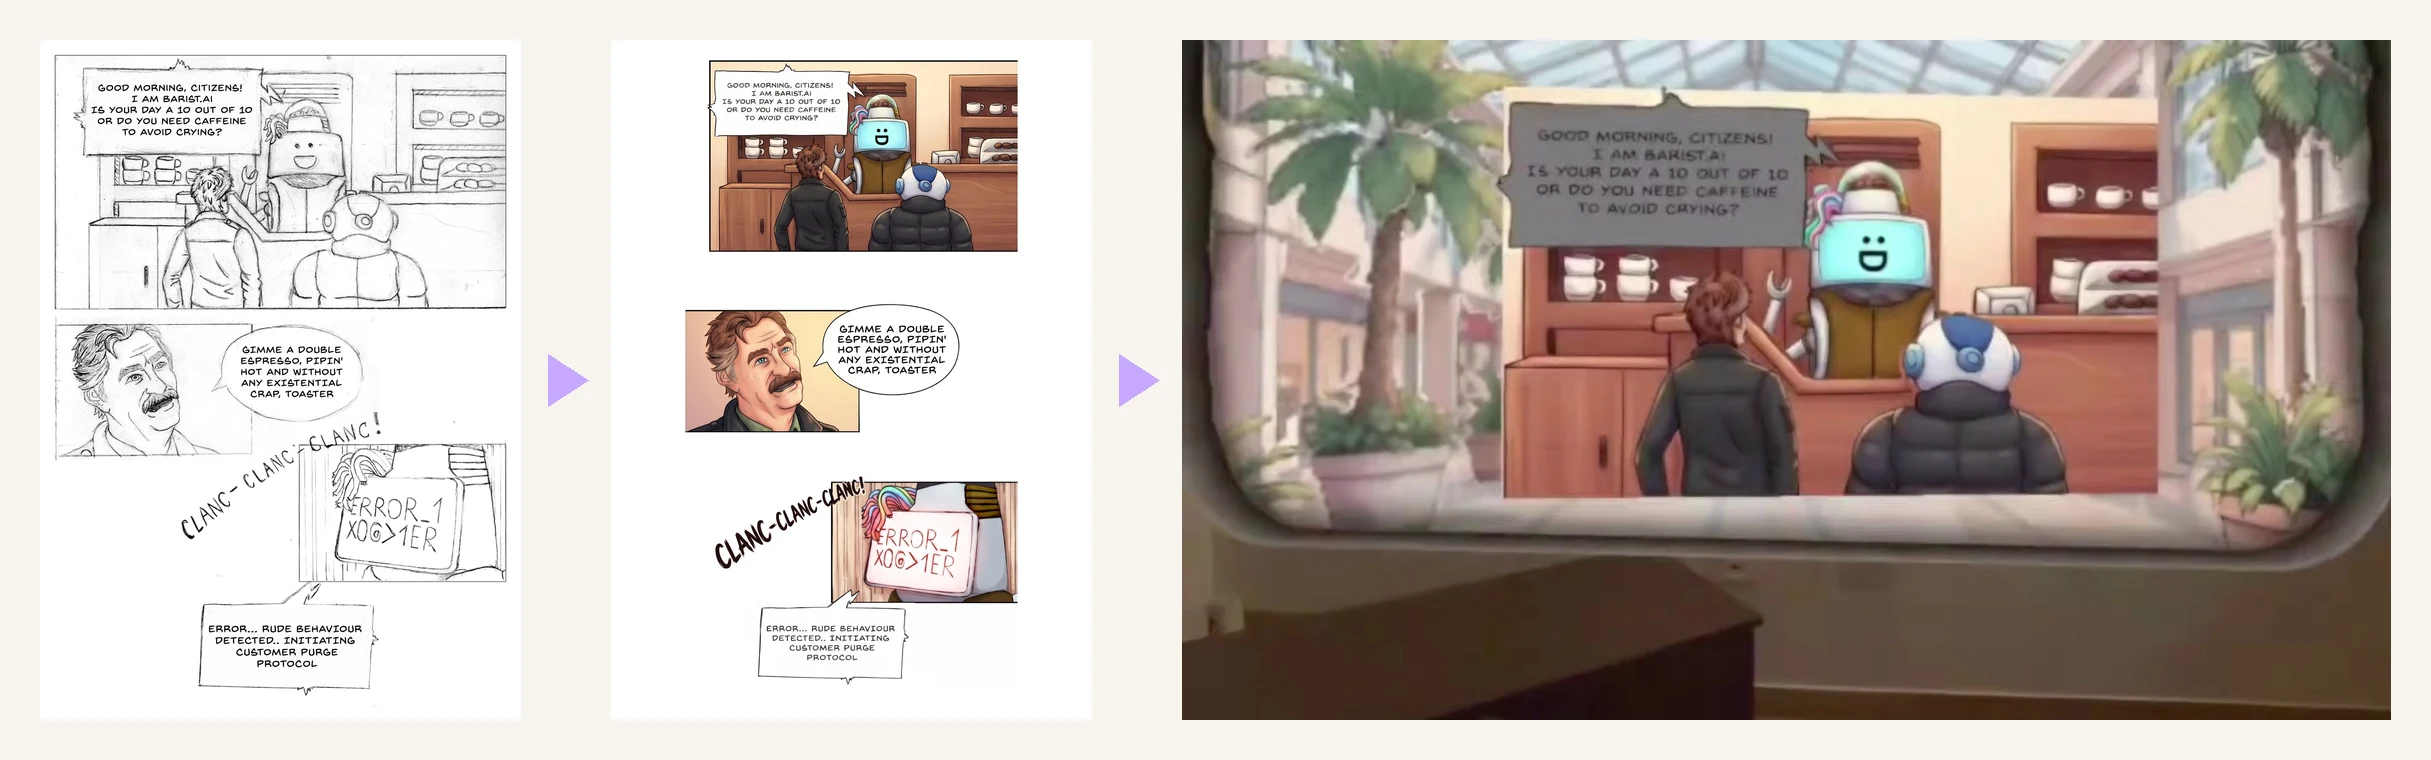
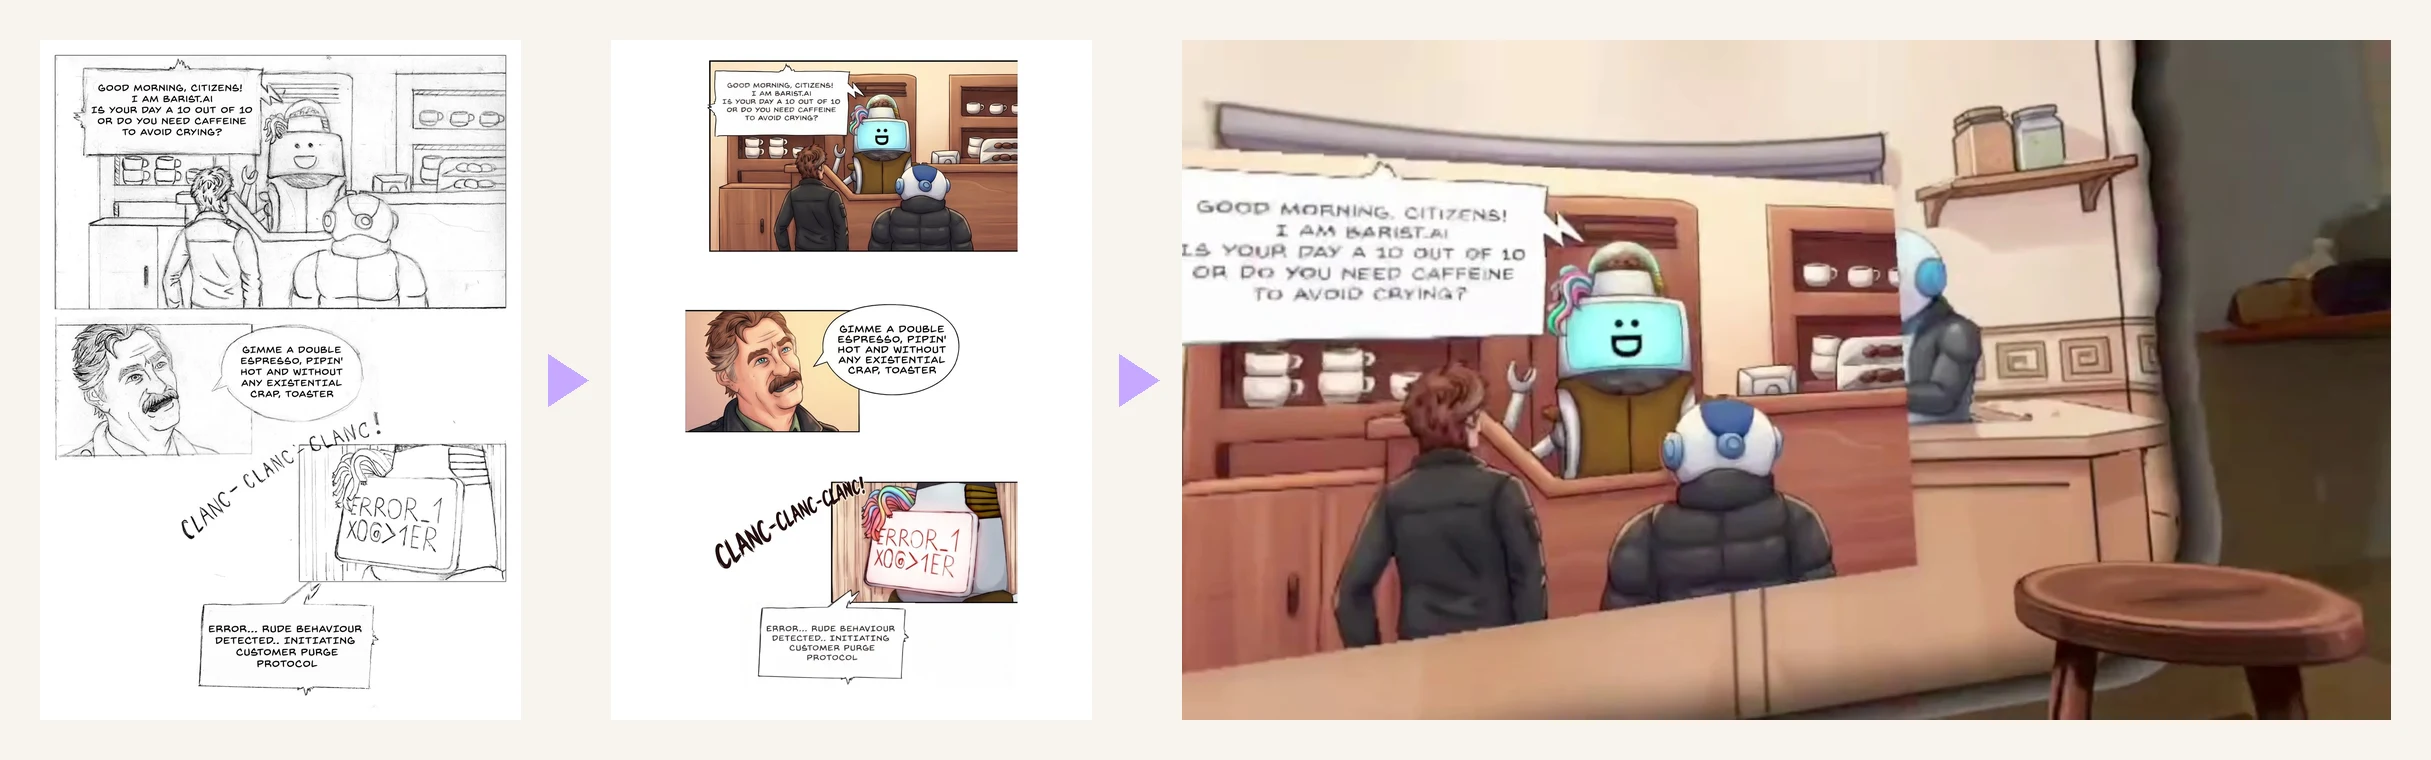
README: the wordmark, a header frame with a lit balloon and a 3D prop, and a Devpost header
The header's headset panel is a frame where the line being read is lit and
the cafe's 3D stool stands in the scene; the gallery gains the balloon
highlight. The title is the Zumi wordmark. docs/images/devpost-header.jpg is
the logo layout with its empty panels filled: the same panel in pencil and in
color, the making-of in the room, the book, and the lit balloon on the
headset.

Claude-Session: https://claude.ai/code/session_01KkrAwvXFdFKR5zzyuN5Jh8

diff --git a/README.md b/README.md
@@ -1,8 +1,8 @@
-<img src="docs/images/header.webp" alt="Zumi: a pencil page, the same page colored, and the panel playing through a window in a real wall, captured on a Quest 3" width="100%">
+<img src="docs/images/header.webp" alt="Zumi: a pencil page, the same page colored, and the panel playing on a Quest 3 with its line lit and the cafe behind it, a 3D stool in the scene" width="100%">
 
-# <img src="docs/images/zumi-logo.png" alt="" height="44"> Zumi
+<h1 align="center"><img src="docs/images/zumi-wordmark.png" alt="Zumi" width="300"></h1>
 
-[![Demo video](https://img.shields.io/badge/demo_video-YouTube-red)](https://www.youtube.com/watch?v=WcKxd4QNLlw)
+<p align="center"><a href="https://www.youtube.com/watch?v=WcKxd4QNLlw"><img src="https://img.shields.io/badge/demo_video-YouTube-red" alt="Demo video"></a></p>
 
 Turn your pencil sketches into awesome mixed reality comics. Zumi takes a comic drawn in pencil, colors it without redrawing it, gives every character a voice, scores it, builds the world of each scene in 3D, and plays the result on a Meta Quest: the panels float in front of you while the scene behind them opens up through a window in your real wall. We built it as a team of two (one engineer working with AI coding agents, one comic artist) for the Meta VR Start Developer Competition, in a few weeks.
 
@@ -22,8 +22,8 @@ Real captures from a Quest 3, from the [demo video](https://www.youtube.com/watc
 |---|---|
 | <img src="docs/images/capture-carousel.webp" alt="The carousel with the Dan and Buck book"> | <img src="docs/images/capture-making-of.webp" alt="The making-of showcase: ten pages floating in the room"> |
 | The carousel: grab the book to open it | How it was made: the pages, stage by stage, in your room |
-| <img src="docs/images/capture-portal.webp" alt="A panel in front of a window cut into the real wall, the cafe behind it"> | <img src="docs/images/capture-props.webp" alt="A bar stool from the comic standing on the real floor"> |
-| The panel in front, the café through the wall | Props from the story in your real room |
+| <img src="docs/images/capture-dialogue.webp" alt="A panel whose first balloon is lit while the next lines wait greyed"> | <img src="docs/images/capture-props.webp" alt="A bar stool from the comic standing on the real floor"> |
+| The line being read lights up, the next ones wait greyed | Props from the story in your real room |
 
 ## What it does
 
